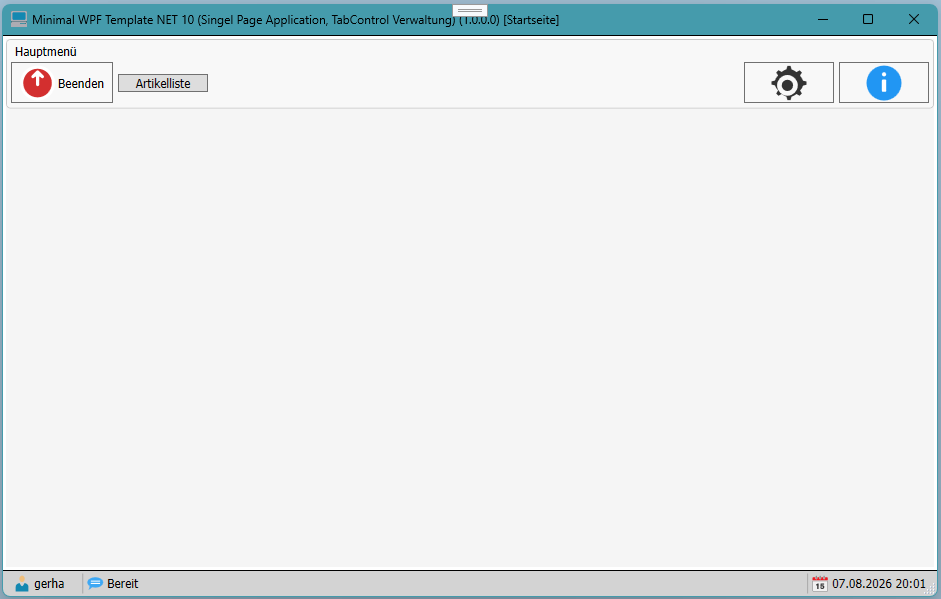
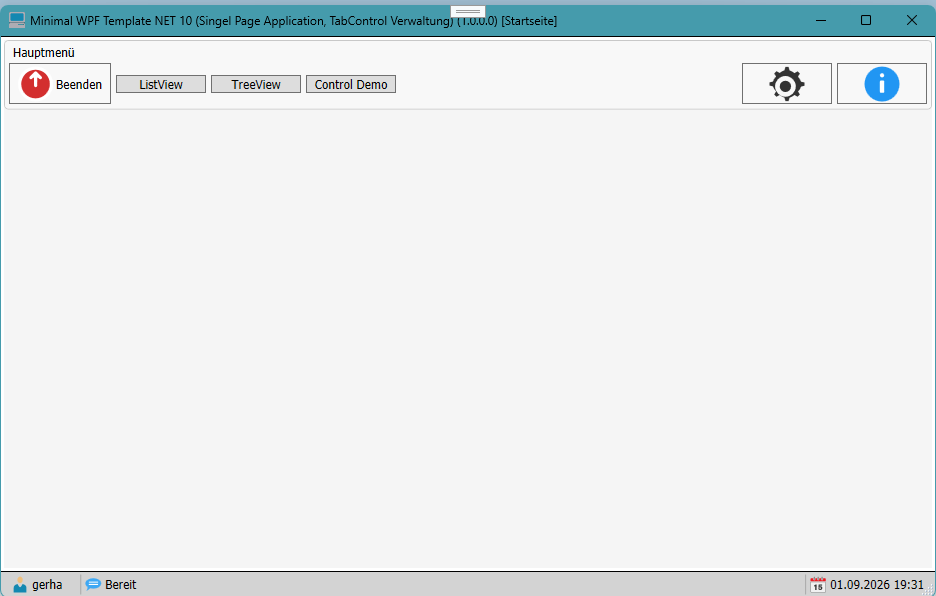
*

Changed region(s): [[0.0, 0.0, 1.0, 1.0]]

diff --git a/MinimalWPF_TAB/View/KategorieTreeUC.xaml b/MinimalWPF_TAB/View/KategorieTreeUC.xaml
@@ -160,9 +160,9 @@
                     <UI:StatusTreeView
                         Grid.Row="2"
                         Margin="5,0,5,0"
-                        FilteredItemCount="{Binding Path=FilteredItemCount, ElementName=treeMain}"
-                        IsFiltered="{Binding Path=IsFiltered, ElementName=treeMain}"
-                        TotalItemCount="{Binding Path=TotalItemCount, ElementName=treeMain}" />
+                        FilteredItemCount="{Binding Path=FilteredItemCount, ElementName=KategorieTree}"
+                        IsFiltered="{Binding Path=IsFiltered, ElementName=KategorieTree}"
+                        TotalItemCount="{Binding Path=TotalItemCount, ElementName=KategorieTree}" />
 
                 </Grid>
             </UI:AdvancedTabItem>

diff --git a/MinimalWPF_TAB/README.md b/MinimalWPF_TAB/README.md
@@ -17,5 +17,9 @@ Per Doppelklick wird ein weiters TabItem geöffnet, in dem die Daten des ListVie
 So können weiter TabItems geöffnet werden, die jeweils die Daten des ListView als Detailansicht anzeigen.
 <img src="Main_TAB_2.png" style="width:650px;"/>
 
+<img src="Main_TAB_3.png" style="width:650px;"/>
+
+<img src="Main_TAB_4.png" style="width:650px;"/>
+
 ![Version](https://img.shields.io/badge/Version-1.0.2026.1-yellow.svg)
 - Erste Version
